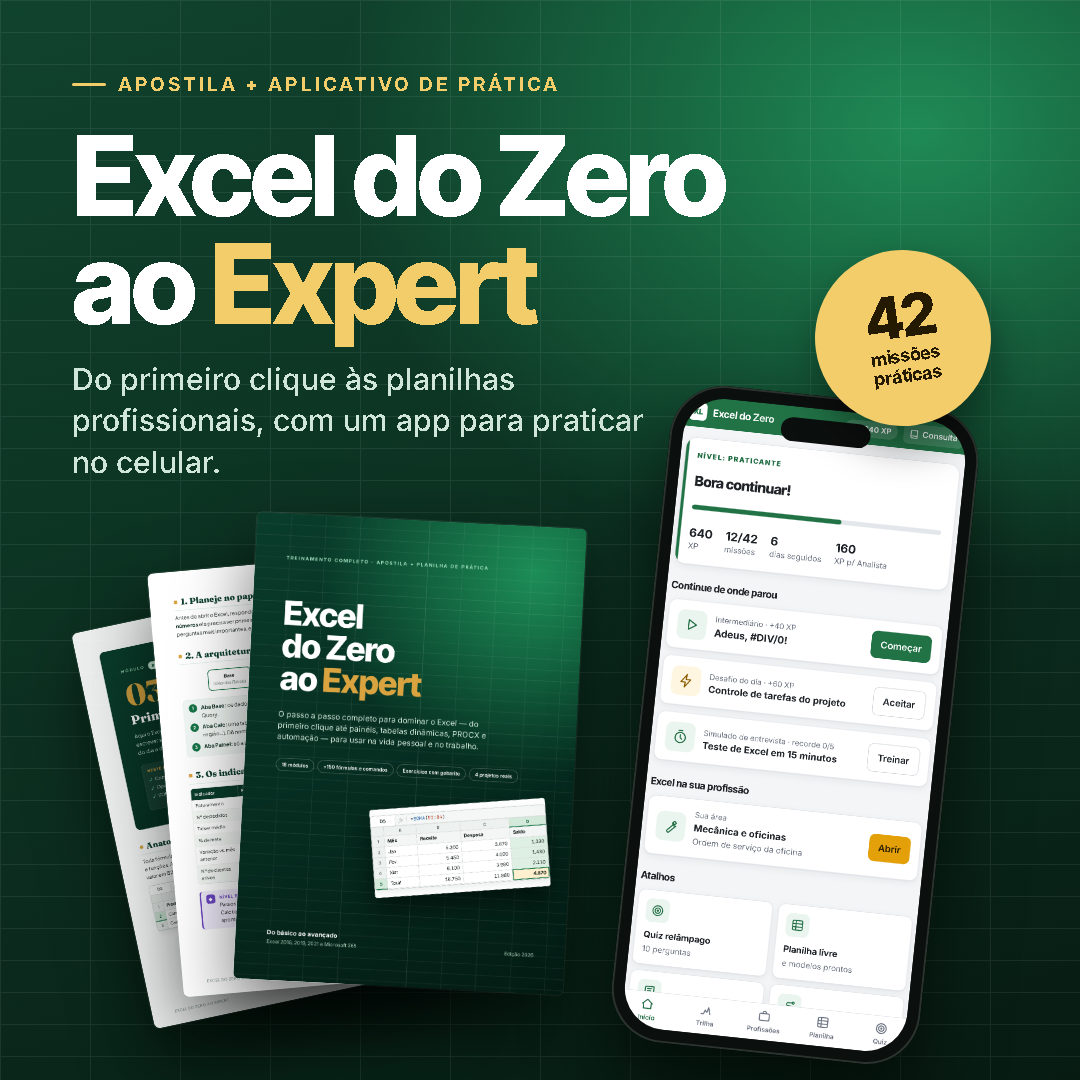
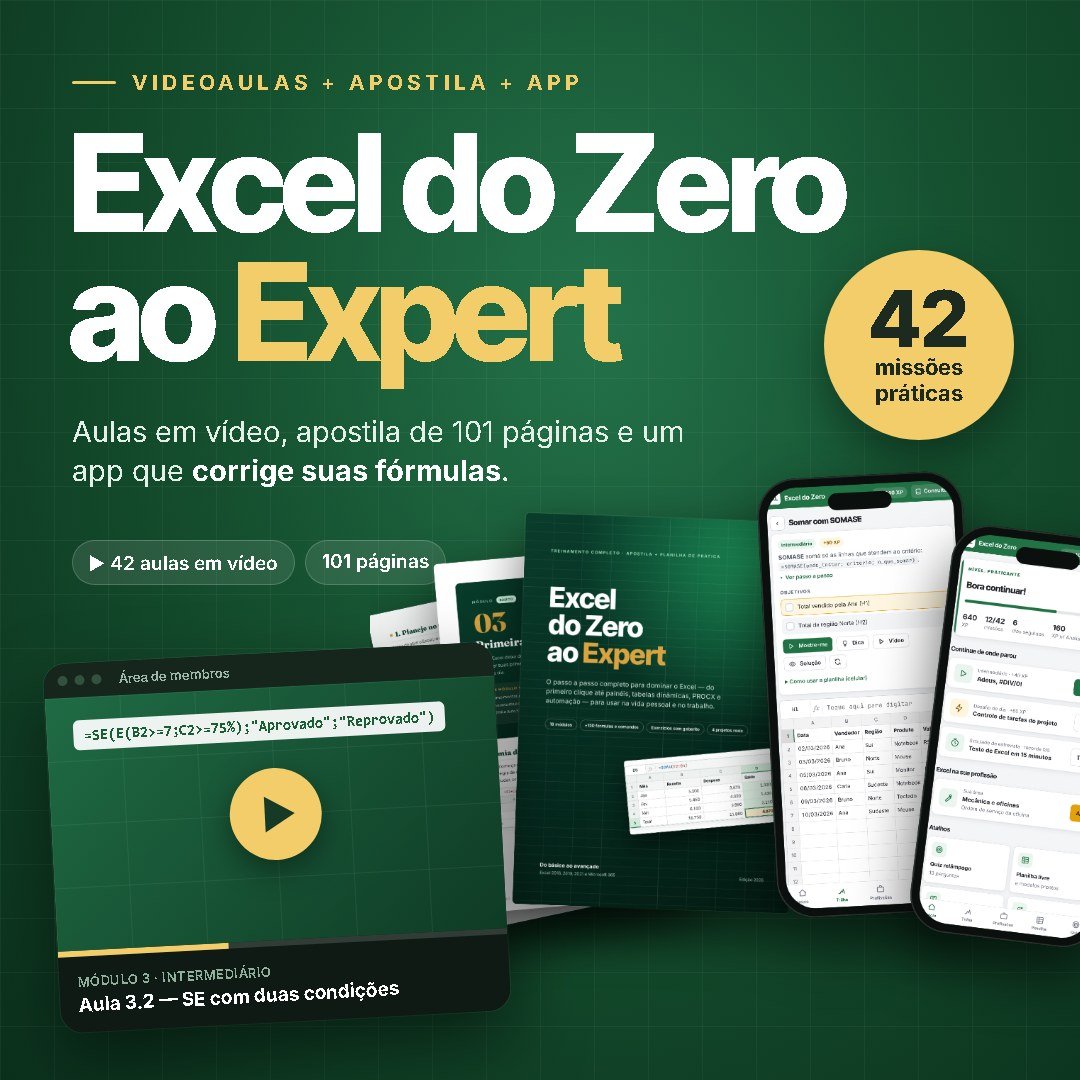
Destaca as aulas em vídeo na página de vendas e adiciona capas novas

diff --git a/index.html b/index.html
@@ -3,10 +3,10 @@
 <head>
 <meta charset="utf-8">
 <meta name="viewport" content="width=device-width, initial-scale=1">
-<title>Excel do Zero ao Expert — Apostila + App de prática</title>
-<meta name="description" content="Aprenda Excel do básico ao avançado com uma apostila completa de 101 páginas e um aplicativo de prática com 42 missões, correção automática e exercícios para 15 profissões.">
-<meta property="og:title" content="Excel do Zero ao Expert — Apostila + App de prática">
-<meta property="og:description" content="Apostila completa + aplicativo com 42 missões práticas, correção automática e exercícios para 15 profissões.">
+<title>Excel do Zero ao Expert — Videoaulas + Apostila + App de prática</title>
+<meta name="description" content="Aprenda Excel do básico ao avançado com aulas em vídeo, uma apostila completa de 101 páginas e um aplicativo de prática com 42 missões, correção automática e exercícios para 15 profissões.">
+<meta property="og:title" content="Excel do Zero ao Expert — Videoaulas + Apostila + App de prática">
+<meta property="og:description" content="Aulas em vídeo + apostila completa + aplicativo com 42 missões práticas, correção automática e exercícios para 15 profissões.">
 <meta property="og:image" content="img/capa.jpg">
 <meta name="theme-color" content="#0F3D2A">
 <link rel="icon" href="app/icons/icon-192.png">
@@ -114,7 +114,7 @@ section{padding:92px 0}
 .fn a{color:#9FB5A9}
 /* entregáveis */
 .gets{display:grid;gap:22px;margin-top:44px}
-@media(min-width:900px){.gets{grid-template-columns:repeat(3,1fr)}}
+@media(min-width:900px){.gets{grid-template-columns:repeat(2,1fr)}}
 .get{border:1px solid var(--line);border-radius:20px;overflow:hidden;background:#fff;display:flex;flex-direction:column;transition:box-shadow .2s,transform .2s}
 .get:hover{box-shadow:0 18px 40px rgba(16,40,28,.10);transform:translateY(-2px)}
 .get .ph{background:linear-gradient(160deg,#EEF4F0,#E2ECE6);aspect-ratio:16/11;display:flex;align-items:flex-end;justify-content:center;overflow:hidden;padding:22px 22px 0}
@@ -213,8 +213,9 @@ const PARCELAS = "";                                          // ex.: "ou 3x de 
   <div>
     <span class="eyebrow anim d1">Excel do Zero ao Expert</span>
     <h1 class="anim d2">Pare de travar no Excel <em>na frente do chefe.</em></h1>
-    <p class="lead anim d3">Relatório pedido “pra ontem”, fórmula que dá erro, teste de Excel na entrevista. Aprenda do básico ao avançado com uma apostila passo a passo e um aplicativo que corrige suas fórmulas na hora, no celular ou no computador.</p>
+    <p class="lead anim d3">Relatório pedido “pra ontem”, fórmula que dá erro, teste de Excel na entrevista. Aprenda do básico ao avançado com aulas em vídeo, uma apostila passo a passo e um aplicativo que corrige suas fórmulas na hora, no celular ou no computador.</p>
     <ul class="checks anim d4">
+      <li><svg class="ic" viewBox="0 0 24 24" fill="none" stroke="currentColor" stroke-width="1.8" stroke-linecap="round" stroke-linejoin="round" aria-hidden="true"><circle cx='12' cy='12' r='9'/><path d='m8 12.3 2.7 2.7L16 9.7'/></svg><span><b>42 aulas em vídeo</b> na área de membros, em ordem</span></li>
       <li><svg class="ic" viewBox="0 0 24 24" fill="none" stroke="currentColor" stroke-width="1.8" stroke-linecap="round" stroke-linejoin="round" aria-hidden="true"><circle cx='12' cy='12' r='9'/><path d='m8 12.3 2.7 2.7L16 9.7'/></svg><span>Apostila completa de <b>101 páginas</b>, do primeiro clique ao dashboard</span></li>
       <li><svg class="ic" viewBox="0 0 24 24" fill="none" stroke="currentColor" stroke-width="1.8" stroke-linecap="round" stroke-linejoin="round" aria-hidden="true"><circle cx='12' cy='12' r='9'/><path d='m8 12.3 2.7 2.7L16 9.7'/></svg><span>Aplicativo com <b>42 missões</b> que conferem suas fórmulas</span></li>
       <li><svg class="ic" viewBox="0 0 24 24" fill="none" stroke="currentColor" stroke-width="1.8" stroke-linecap="round" stroke-linejoin="round" aria-hidden="true"><circle cx='12' cy='12' r='9'/><path d='m8 12.3 2.7 2.7L16 9.7'/></svg><span>Exercícios para <b>15 profissões</b>, da oficina à mineração</span></li>
@@ -256,8 +257,9 @@ const PARCELAS = "";                                          // ex.: "ou 3x de 
 </div></section>
 
 <section style="padding-top:0"><div class="wrap">
-  <div class="center"><span class="eyebrow">O que você recebe</span><h2>Três materiais que se completam</h2></div>
+  <div class="center"><span class="eyebrow">O que você recebe</span><h2>Quatro materiais que se completam</h2></div>
   <div class="gets">
+    <div class="get"><div class="ph" style="align-items:center;padding:14px"><img src="img/videoaulas.png" alt="Aula em vídeo na área de membros" style="object-fit:contain;box-shadow:none;border-radius:0"></div><div class="tx"><div class="kind">Área de membros · 42 aulas</div><h3>Aulas em vídeo</h3><p>Uma aula em vídeo para cada tema, em ordem, do básico às 15 profissões. Cada aula traz uma explicação curta, o vídeo e a missão para você praticar no app.</p></div></div>
     <div class="get"><div class="ph"><img class="pdf" src="img/pdf.jpg" alt="Capa da apostila"></div><div class="tx"><div class="kind">PDF · 101 páginas</div><h3>Apostila completa</h3><p>18 módulos do básico ao expert, com ilustrações de planilha em cada passo, dicas, erros comuns, exercícios com gabarito e dicionário de funções português–inglês.</p></div></div>
     <div class="get"><div class="ph"><img src="img/app_home.jpg" alt="Tela inicial do aplicativo"></div><div class="tx"><div class="kind">Celular e computador</div><h3>Aplicativo Excel do Zero</h3><p>Simulador de planilha que calcula fórmulas em português, com 42 missões guiadas que conferem sua resposta na hora, quiz, consulta de funções e planilha livre.</p></div></div>
     <div class="get"><div class="ph"><div class="xmock"><div class="bar">Controle financeiro.xlsx</div><table>
@@ -338,6 +340,7 @@ const PARCELAS = "";                                          // ex.: "ou 3x de 
   <span class="eyebrow" style="color:#F4CD6B">Oferta</span><h2>Tudo o que você precisa para dominar o Excel</h2>
   <div class="box">
     <ul>
+      <li><svg class="ic" viewBox="0 0 24 24" fill="none" stroke="currentColor" stroke-width="1.8" stroke-linecap="round" stroke-linejoin="round" aria-hidden="true"><rect x='3' y='5' width='18' height='14' rx='2'/><path d='m10 9 5 3-5 3z'/></svg>42 aulas em vídeo na área de membros</li>
       <li><svg class="ic" viewBox="0 0 24 24" fill="none" stroke="currentColor" stroke-width="1.8" stroke-linecap="round" stroke-linejoin="round" aria-hidden="true"><path d='M4 5.5A2.5 2.5 0 0 1 6.5 3H20v15H6.5A2.5 2.5 0 0 0 4 20.5z'/><path d='M4 20.5A2.5 2.5 0 0 0 6.5 23H20v-5'/><path d='M8 7h8M8 11h6'/></svg>Apostila Excel do Zero ao Expert — PDF, 101 páginas</li>
       <li><svg class="ic" viewBox="0 0 24 24" fill="none" stroke="currentColor" stroke-width="1.8" stroke-linecap="round" stroke-linejoin="round" aria-hidden="true"><rect x='6.5' y='2.5' width='11' height='19' rx='2.5'/><path d='M11 18.5h2'/></svg>Aplicativo Excel do Zero — celular e computador</li>
       <li><svg class="ic" viewBox="0 0 24 24" fill="none" stroke="currentColor" stroke-width="1.8" stroke-linecap="round" stroke-linejoin="round" aria-hidden="true"><rect x='3' y='7' width='18' height='13' rx='2'/><path d='M9 7V5a2 2 0 0 1 2-2h2a2 2 0 0 1 2 2v2'/><path d='M3 13h18'/></svg>Missões e modelos para 15 profissões</li>
@@ -357,19 +360,19 @@ const PARCELAS = "";                                          // ex.: "ou 3x de 
 <section><div class="wrap">
   <div class="center"><h2>Perguntas frequentes</h2></div>
   <div class="faq">
-  <details><summary>Como recebo o material?</summary><p>Logo após a confirmação do pagamento você recebe o acesso por e-mail. Lá estão a apostila em PDF, a planilha de prática e o link do aplicativo.</p></details>
+  <details><summary>Como recebo o material?</summary><p>Logo após a confirmação do pagamento você recebe o acesso por e-mail. Na área de membros estão as aulas em vídeo, a apostila em PDF, a planilha de prática e o link do aplicativo.</p></details>
   <details><summary>O aplicativo funciona no meu celular?</summary><p>Sim. Ele abre no navegador de celulares Android e iPhone e também no computador. Você pode instalá-lo na tela inicial como um app e, depois de aberto uma vez, ele funciona até sem internet.</p></details>
   <details><summary>Preciso ter o Excel instalado?</summary><p>Para usar o aplicativo e ler a apostila, não. Para os módulos de tabela dinâmica, gráficos, Power Query e macros, e para a planilha de prática, o ideal é ter o Excel no computador. Algumas funções modernas, como PROCX e FILTRO, exigem Excel 2021 ou Microsoft 365, e a apostila indica quais são.</p></details>
   <details><summary>Nunca abri o Excel. Consigo acompanhar?</summary><p>Consegue. O Módulo 1 começa do zero: o que é uma célula, como selecionar, como digitar. A trilha do aplicativo segue a mesma ordem.</p></details>
   <details><summary>Serve para o Excel em inglês?</summary><p>O conteúdo usa o Excel em português, e a apostila traz um dicionário com mais de 120 funções traduzidas para o inglês, além das diferenças de atalhos e do separador de argumentos.</p></details>
-  <details><summary>É um curso em vídeo?</summary><p>Não. É uma apostila completa com passo a passo ilustrado e um aplicativo de prática interativo. O foco é fazer, com correção imediata.</p></details>
+  <details><summary>Tem aulas em vídeo?</summary><p>Sim. Na área de membros são 42 aulas em vídeo, em ordem, do básico às profissões, selecionadas de professores brasileiros de Excel. Cada aula traz também uma explicação curta e a missão para praticar no aplicativo. O foco é assistir e fazer, com correção imediata.</p></details>
   <details><summary>Tem garantia?</summary><p>Sim, 7 dias. Se não gostar, peça o reembolso dentro do prazo.</p></details>
   </div>
 </div></section>
 
 <section class="center" style="background:var(--bg)"><div class="wrap">
   <h2>Comece hoje. Sua primeira fórmula<br>leva dois minutos.</h2>
-  <p class="lead" style="margin-bottom:30px">Apostila, aplicativo e planilha de prática, com acesso imediato.</p>
+  <p class="lead" style="margin-bottom:30px">Aulas em vídeo, apostila, aplicativo e planilha de prática, com acesso imediato.</p>
   <a class="btn gold big checkout" href="#">Quero aprender Excel agora <svg class="ic" viewBox="0 0 24 24" fill="none" stroke="currentColor" stroke-width="1.8" stroke-linecap="round" stroke-linejoin="round" aria-hidden="true"><path d='M4 12h16M14 6l6 6-6 6'/></svg></a>
 </div></section>
 
